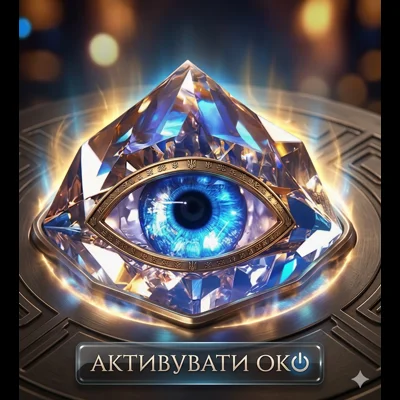
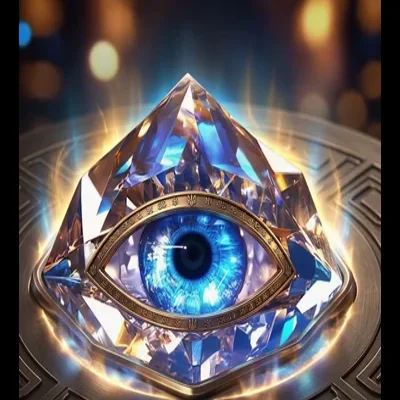
B2B demo: crop eye text, swap images, update labels
- eye.webp: cropped bottom 18% to remove baked-in АКТИВУВАТИ ОКО text
- Cards swapped: fractal left (product card), eye right (AI result)
- Button: Активувати Око → Активувати магію
- Right label: За 20 секунд → Народження дива за 30 секунд

https://claude.ai/code/session_01BaMdTDrycT93A9f2ZsgBV3

diff --git a/index.html b/index.html
@@ -2493,15 +2493,15 @@ async function handleB2BForm(e) {
     <!-- DEMO -->
     <div class="b2b-widget-demo">
       <div class="b2b-demo-card">
-        <div class="b2b-demo-img" style="background-image:url('/_w/eye.webp')"></div>
+        <div class="b2b-demo-img" style="background-image:url('/_w/result.webp')"></div>
         <div class="b2b-demo-card-label">Картка товару</div>
-        <button class="btn-activate">◆ Активувати Око</button>
+        <button class="btn-activate">◆ Активувати магію</button>
       </div>
       <div style="font-size:20px;color:var(--gold)">→</div>
       <div class="b2b-demo-card" style="border-color:rgba(201,168,76,0.5)">
-        <div class="b2b-demo-img" style="background-image:url('/_w/result.webp')"></div>
+        <div class="b2b-demo-img" style="background-image:url('/_w/eye.webp')"></div>
         <div class="b2b-demo-card-label">AI-результат</div>
-        <div style="font-size:10px;color:var(--gold);letter-spacing:1px">За 20 секунд</div>
+        <div style="font-size:10px;color:var(--gold);letter-spacing:1px">Народження дива за 30 секунд</div>
       </div>
     </div>
 